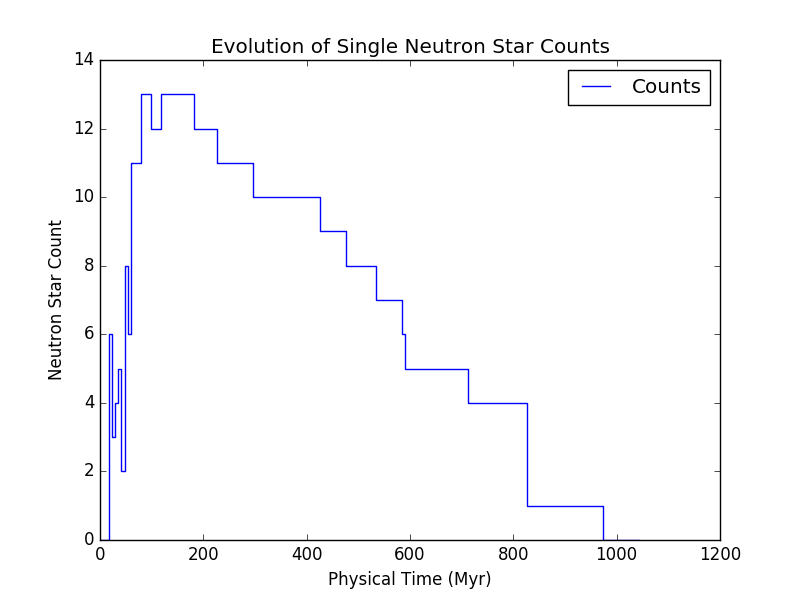
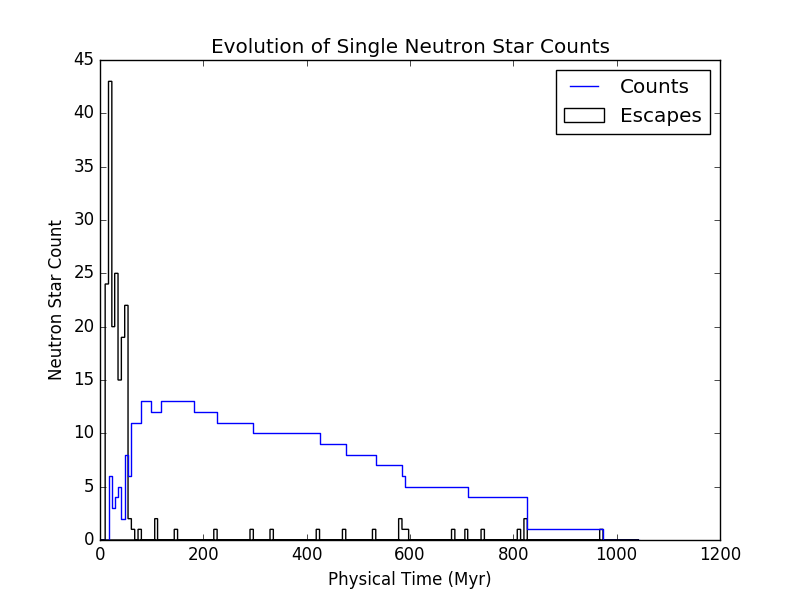
Refactor get_single_escapes to parse all save* dirs

diff --git a/scripts/neutron_stars.py b/scripts/neutron_stars.py
@@ -63,8 +63,9 @@ def get_single_data(data_dir):
         starcounts = [] # Will hold numbers of neutron stars at each timestep.
         for filename in glob.glob(single_stars):
             with open(filename, 'r') as f:
+                row = f.readline().split()
                 # Physical time is the second item in the first line
-                physical_time = float(f.readline().split()[1])
+                physical_time = float(row[1])
                 # Save position so the starcount can be inserted at the same position
                 position = bisect.bisect(timesteps, physical_time)
                 # Insert so that timesteps is always ordered
@@ -142,7 +143,7 @@ def get_single_escapes(data_dir):
     """
     save_dirs = os.path.join(data_dir, "save*")
 
-    data = []
+    escape_times = []
     for dirname in glob.glob(save_dirs):
         # Neutron star escape counts
         filename = os.path.join(dirname, "esc.11")
@@ -151,30 +152,39 @@ def get_single_escapes(data_dir):
             # Skip the header
             next(f)
 
+            cut = False
             for line in f:
                 data_line = line.split()
                 # 5th item in row is star type
                 type = data_line[4]
 
                 if int(type) == NEUTRON_STAR:
-                    starname = data_line[5] # Star name (number) is 6th item in row
-                    if len(data) == 0: # For save01
-                        time = data_line[0] # Physical time is the first item in each row
-                        data.append( (float(time), int(starname)) ) # Append a tuple
+                    if len(escape_times) == 0: # For save01
+                        escape_times.append(float(data_line[0])) # Physical time is the first item in each row
                     else:
-                        pass # TODO: Currently only processes data from save01's esc.11
+                        time = float(data_line[0])
+                        # Throw away duplicate data from previous save
+                        if not cut:
+                            cut_ind = 0
+                            for ind, val in enumerate(escape_times):
+                                if time < val:
+                                    cut_ind = ind
+                            escape_times = escape_times[:cut_ind + 1]
+                            cut = True
+                        escape_times.append(time)
 
-    return [x[0] for x in data] # Return only a list of times
+    return escape_times
 
 
 def main():
     data_dir = os.path.join(os.path.dirname(__file__), "..", "N10K_r26_Z002_1")
 
     timesteps, counts = get_single_data(data_dir)
-
     single_hist = hist_data(timesteps, counts)
     plt.plot(single_hist[0], single_hist[1], label="Counts")
-    # plt.hist(single_escapes, bins=single[0], histtype="stepfilled", label="Escapes")
+
+    single_escapes = get_single_escapes(data_dir)
+    plt.hist(single_escapes, bins=timesteps, histtype="stepfilled", label="Escapes", fill=False)
 
     plt.title("Evolution of Single Neutron Star Counts")
     plt.xlabel("Physical Time (Myr)")
